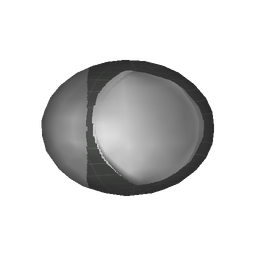
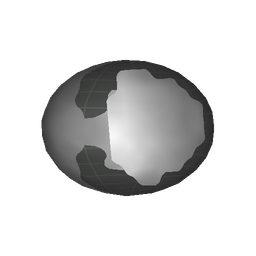
fix(observations): withhold Amalthea's misregistered frame edge and cap Thebe and Metis normalization
Rendered context views showed three Galileo raw-DN artifacts on the shared pipeline, each traced to its frames:

- Amalthea: C0532888100 has a 4.99-pixel limb residual and a 5-pixel coverage inset. The next ring of pixels lies where
  the coarse shape predicts grazing light; normalized, it measured 2.1 times the overlapping C0512324200 at the same
  points and drew a bright stripe. An incidence limit of 60 degrees or a gain cap of 1.5 left it; a 10-pixel inset
  (twice the residual) removes it, keeps 71.0% area coverage (71.1%) and lowers that pair's log spread 0.158 -> 0.131.
- Thebe: at a 2.5 gain cap, C0532888400 samples normalized by more than 1.75 held 627 of 629 saturated samples. A
  1.75 cap removes the white patch; coverage 65.2% -> 65.1%. Registration insets would drop coverage to 47.5%.
- Metis: at a cap of 2, 739 of 766 saturated samples were normalized by more than 1.5, in edge slivers of C0532890500
  and C0394682801. A 1.5 cap removes them; coverage 60.4% -> 53.9%.

Level budgets and zero-based display ranges are re-measured under the new settings. The Metis README drops the old
route's 0.7-1.4 level bound. Context images and their manifest, navigation and descriptor pins are refreshed.

diff --git a/src/planets/amalthea/README.md b/src/planets/amalthea/README.md
@@ -43,7 +43,7 @@ Amalthea is a standalone Jupiter moon using the generic object package, shared l
 
 ## Preparation
 
-`source/preparation/terrestrial.json` owns the shared recipe. Source observations are original unsigned 8-bit detector DN, decoded after VICAR telemetry headers and row prefixes. Recorded empty/low-signal sky subtraction, a bounded lunar-Lambert approximation(maximum 2× gain; incidence ≤72°, emission ≤75°) and overlap level matching fitted where both frames see the surface within 70° of incidence and emission (the widest gain, 8.7, reconciles raw exposures through different filters) reduce photographed shading. Cast shadows and absent/unreliable samples are never reconstructed. A neutral gray grid marks gaps.
+`source/preparation/terrestrial.json` owns the shared recipe. Source observations are original unsigned 8-bit detector DN, decoded after VICAR telemetry headers and row prefixes. Recorded empty/low-signal sky subtraction, a bounded lunar-Lambert approximation(maximum 2× gain; incidence ≤72°, emission ≤75°) and overlap level matching fitted where both frames see the surface within 70° of incidence and emission (the widest gain, 8.6, reconciles raw exposures through different filters) reduce photographed shading. C0532888100 withholds pixels within 10 pixels of its background (sky and unlit surface), twice its 5-pixel limb residual. At its former 5-pixel inset, the next ring of pixels lay where the coarse shape predicts grazing light: normalized, it measured 2.1 times the overlapping C0512324200 at the same points and drew a bright stripe. The wider inset keeps 71.0% of the surface covered (71.1% before) and lowers the log spread between those two frames from 0.158 to 0.131. Cast shadows and absent/unreliable samples are never reconstructed. A neutral gray grid marks gaps.
 
 Some old archived raw labels have inconsistent Sun longitude/range. Conversely, OPUS image center and pole angles disagree with the original raw raster. Camera roll therefore uses the original PDS label NORTH_AZIMUTH+90°, following the [documented clockwise-from-image-right convention](https://pds.nasa.gov/datastandards/documents/dd/all/current/ch33s02.html); only center translation is fitted to illuminated source-shape boundaries. Typical residuals are 0.6–2.1pixels; the closest image is about 5pixels because the coarse Voyager shape differs from Galileo’s detailed limb.
 

diff --git a/src/planets/metis/README.md b/src/planets/metis/README.md
@@ -54,7 +54,7 @@ Original eight-bit reconstructed SSI data are decoded from their attached VICAR 
 
 Several early raw PDS labels contain inconsistent Sun/range values, so those fields are not used. `NORTH_AZIMUTH` is clockwise from image right under the [PDS definition](https://pds.nasa.gov/datastandards/documents/dd/all/current/ch33s02.html); adding 90 degrees supplies the shared camera's clockwise angle from image up. In particular, north is approximately down in the January 2000 raw image. The OPUS image-center and pole-clock values disagree with that image and are not used. Image-center translation is refined against the illuminated ellipsoid while holding its dimensions, camera scale and source directions fixed. Coordinates and the original metadata are recorded in `source/geometry/`.
 
-A measured empty-sky median is removed, then the shared bounded lunar-Lambert approximation (weight 0.5, maximum gain 2, incidence/emission below 70 degrees) reduces photographed illumination. Overlap levels are bounded to 0.7–1.4. The coarse ellipsoid limits registration.
+A measured empty-sky median is removed, then the shared bounded lunar-Lambert approximation (weight 0.5, maximum gain 1.5, incidence/emission below 70 degrees) reduces photographed illumination. At a cap of 2, 739 of the 766 saturated display samples had been normalized by more than 1.5, in thin slivers at the edge of C0532890500 and C0394682801; the 1.5 cap withholds 5,057 of C0394682801's 5,445 samples and lowers area coverage from 60.4% to 53.9%. Overlap level matching is fitted where both frames see the surface within 70° of incidence and emission and needs gains up to 1.75 (C0394682801). The coarse ellipsoid limits registration.
 
 `source/shape/model.json` records the analytic ellipsoid sampling formula. `metis-ellipsoid.tab` is a checked-in 5-degree sampling of that formula, not independent radius measurements. Its sampling is verified against the original PCK dimensions in the numerical source test. Shared meshoptimizer preparation simplifies its 5,040 triangles to 480 within a 500 m library error allowance; that allowance is a preparation setting, not a measurement uncertainty. Original dimension uncertainties are roughly kilometres.
 

diff --git a/src/planets/thebe/README.md b/src/planets/thebe/README.md
@@ -47,7 +47,7 @@ The archived 5° grid uses planetocentric latitude, **west-positive longitude**,
 
 `source/geometry/registration.json` records OPUS target-centered observer and Sun coordinates, distance and native pixel scale. Galileo SSI azimuth increases clockwise from image right ([SSI archive specification](https://pds.nasa.gov/data/go-j_jsa-ssi-2-redr-v1.0/go_0018/document/cdvolsis.pdf)); camera north-from-up is `(NORTH_AZIMUTH + 90) % 360`. OPUS center and pole clock values do not align with the original REDR rasters and are not used. Only two-dimensional camera-center translation is fitted to the observed illuminated shape outline. Shape radii, scale, latitude/longitude and camera roll are unchanged.
 
-Shared preparation skips VICAR telemetry and per-line prefixes, subtracts the recorded constant sky-background estimate, and applies bounded lunar-Lambert illumination normalization (weight 0.5, maximum gain 2.5, incidence/emission limits 75°). Overlap level matching, fitted where both frames see the surface within 70° of incidence and emission (widest gain 1.69), reduces brightness jumps while keeping the original image detail.
+Shared preparation skips VICAR telemetry and per-line prefixes, subtracts the recorded constant sky-background estimate, and applies bounded lunar-Lambert illumination normalization (weight 0.5, maximum gain 1.75, incidence/emission limits 75°). At a 2.5 cap, the 5,606 samples of C0532888400 normalized by more than 1.75 held 627 of the view's 629 saturated display samples, a white patch. The 1.75 cap withholds them and 3,617 more from C0401759200 and C0420691700; other frames fill most of those points, and area coverage stays at 65.1% (65.2% before). Overlap level matching, fitted where both frames see the surface within 70° of incidence and emission (widest gain 1.69), reduces brightness jumps while keeping the original image detail.
 
 Source-aware visibility and shadow tests withhold geometrically unreliable or hidden samples. Normalized coverage is reused by the surface, poles, minimap and prepared context portrait. The shared flood lighting and directional Shadows remain enabled; no photographed terminator is substituted for application lighting.
 
